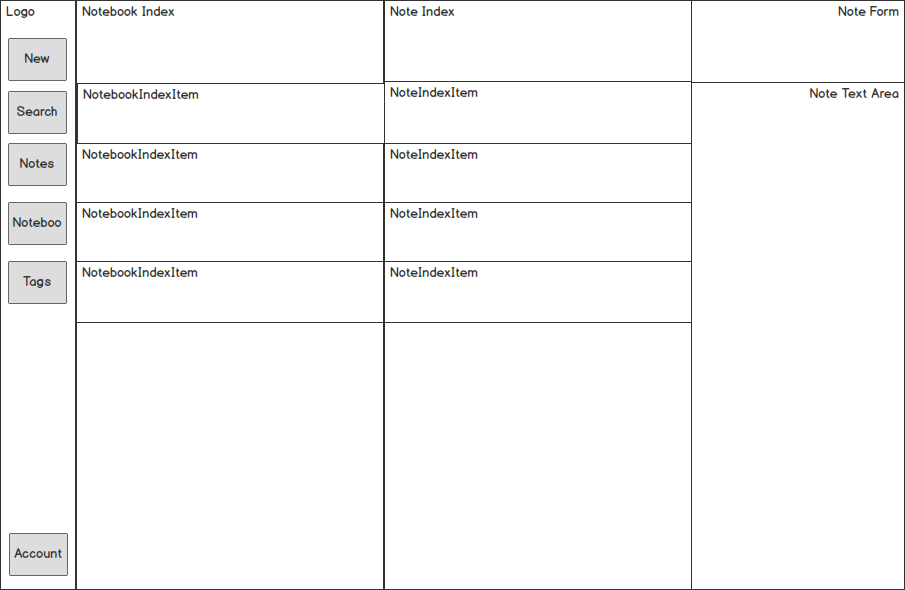
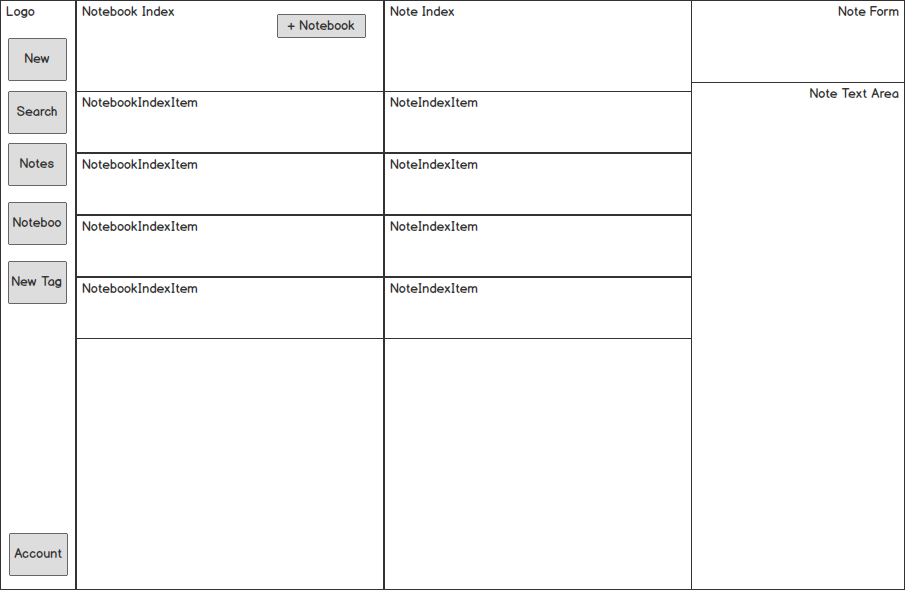
Update readme and wireframes.

diff --git a/README.md b/README.md
@@ -40,7 +40,7 @@ data, and the requisite action to implement CRUD functionality via the JSON API.
 Lastly I will create React components for the `NoteIndex`, `NoteIndexItem` and
 `NoteForm` objects. When this phase is over Notes can be created edited and deleted
 in the browser, and will be persisted to the database when the editor is left
-idle.
+idle. I will also style for structure and visibility.
 
 [Details][phase-two]
 
@@ -57,8 +57,8 @@ of Notes by tag and text. Once this is done, I will implement fuzzy search.
 
 ### Phase 4: Allow Complex Styling in Notes and Image uploading (2 days)
 
-Using quill.js, allow for complex styling of notes. Using paperclip, allow for
-image uploads.
+Using quill.js, allow for complex styling of notes. Using paperclip and S3, allow
+for image uploads, and embedding of images in note text.
 
 [Details][phase-four]
 
@@ -72,13 +72,14 @@ access. Other users can be searched by username or email.
 
 ### Phase 6: Styling Cleanup and Seeding (1 day)
 
-In Phase 6 I will go through and revamp the styling from top to bottom. I will create seed
-data. I will also convert some of my React views to modal overlay forms.
+In Phase 6 I will go through and revamp the styling from top to bottom. I will
+create seed data. I will also convert some of my React views to modal overlay
+forms.
 
 ### Bonus Features (TBD)
 - [ ] Prettify transitions
 - [ ] Simultaneous Editing
-- [ ] Use javascript library for cleaner tag selection
+- [ ] Reminders
 - [ ] Changelogs for Notes
 - [ ] Pagination / infinite scroll for Notes Index
 - [ ] Multiple sessions

diff --git a/docs/views.md b/docs/views.md
@@ -18,6 +18,8 @@
 ## NoteBookForm
 ![notebook-form]
 
+## TagsIndex
+![tags]
 
 ## Component Heirarchy
 ![component-heirarchy]
@@ -29,3 +31,4 @@
 [notebook-form]: ./wireframes/notebook_form.png
 [component-heirarchy]: ./wireframes/component_heirarchy.png
 [share-note-form]: ./wireframes/share_note.png
+[tags]: ./wireframes/tags_index.png

diff --git a/docs/phases/phase3.md b/docs/phases/phase3.md
@@ -35,7 +35,6 @@
 * ApiUtil.createNotebook
 * ApiUtil.editNotebook
 * ApiUtil.destroyNotebook
-* ApiUtil.tagNote
-* ApiUtil.untagNote
+
 
 ## Gems/Libraries
